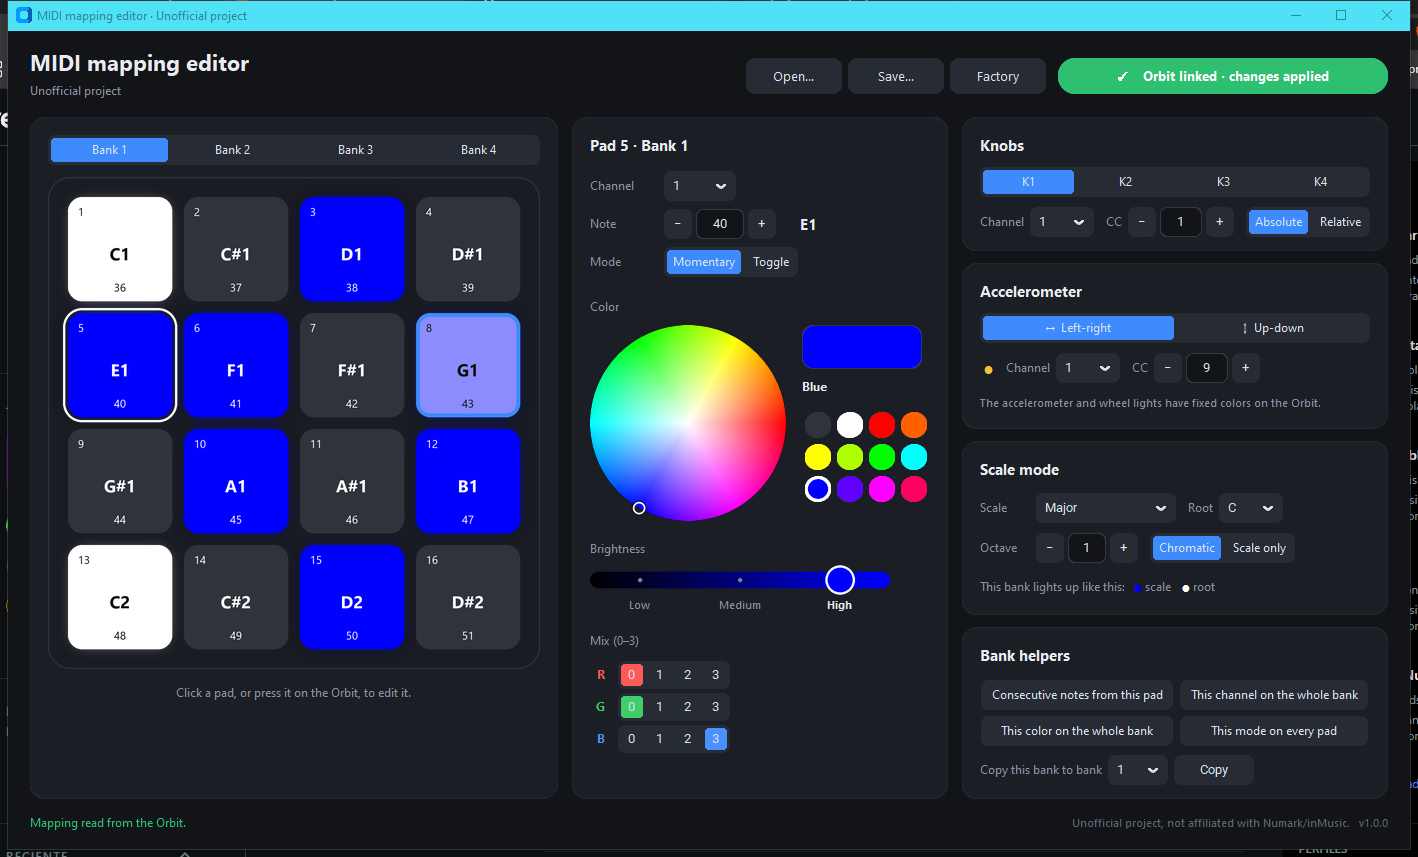
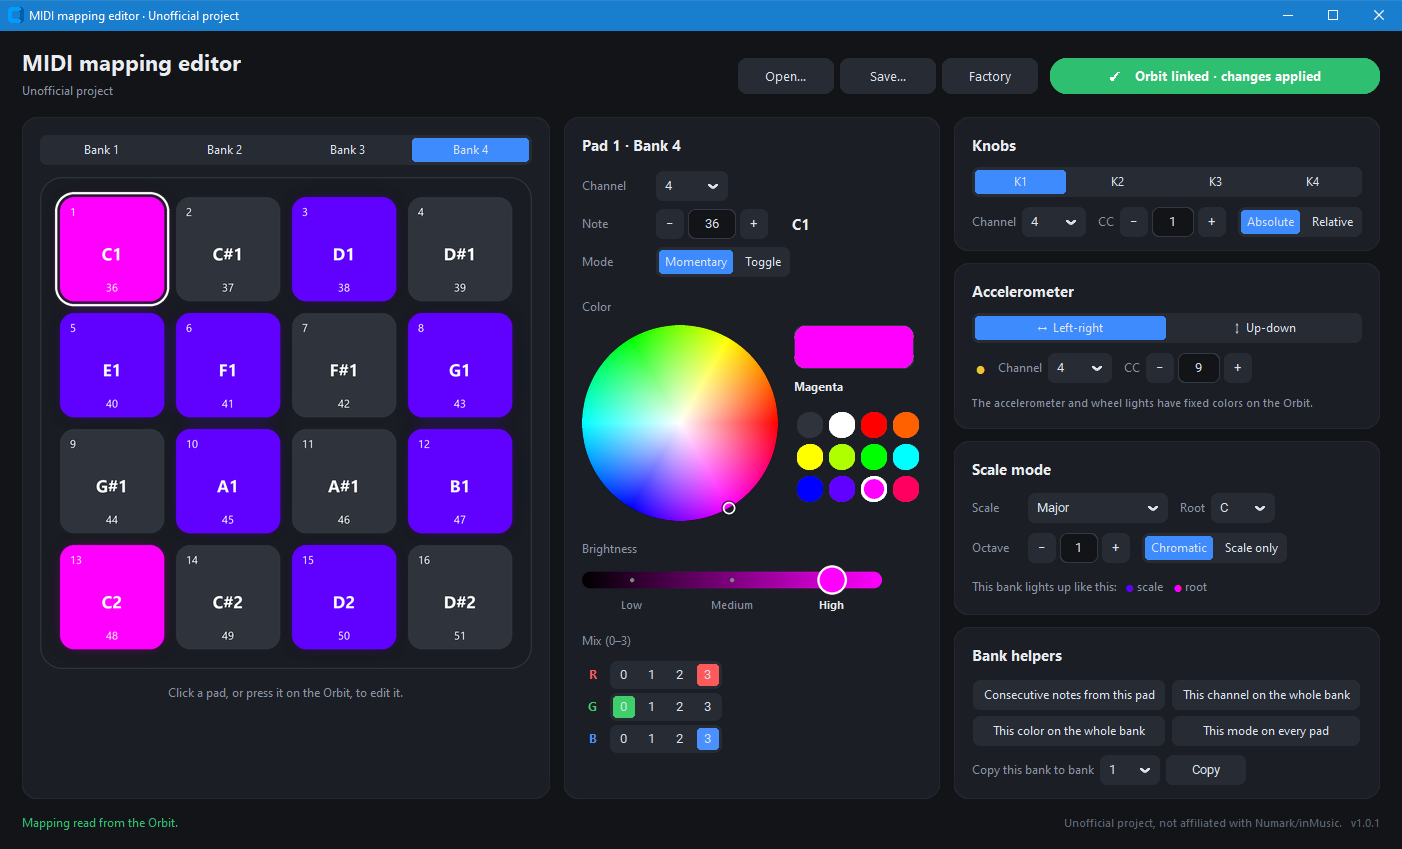
Version 1.0.1: README screenshot with scale mode

diff --git a/orbit_editor/__init__.py b/orbit_editor/__init__.py
@@ -1,3 +1,3 @@
 """Unofficial editor for the Numark Orbit MIDI mapping (not affiliated with Numark/inMusic)."""
 
-__version__ = "1.0.0"
+__version__ = "1.0.1"
